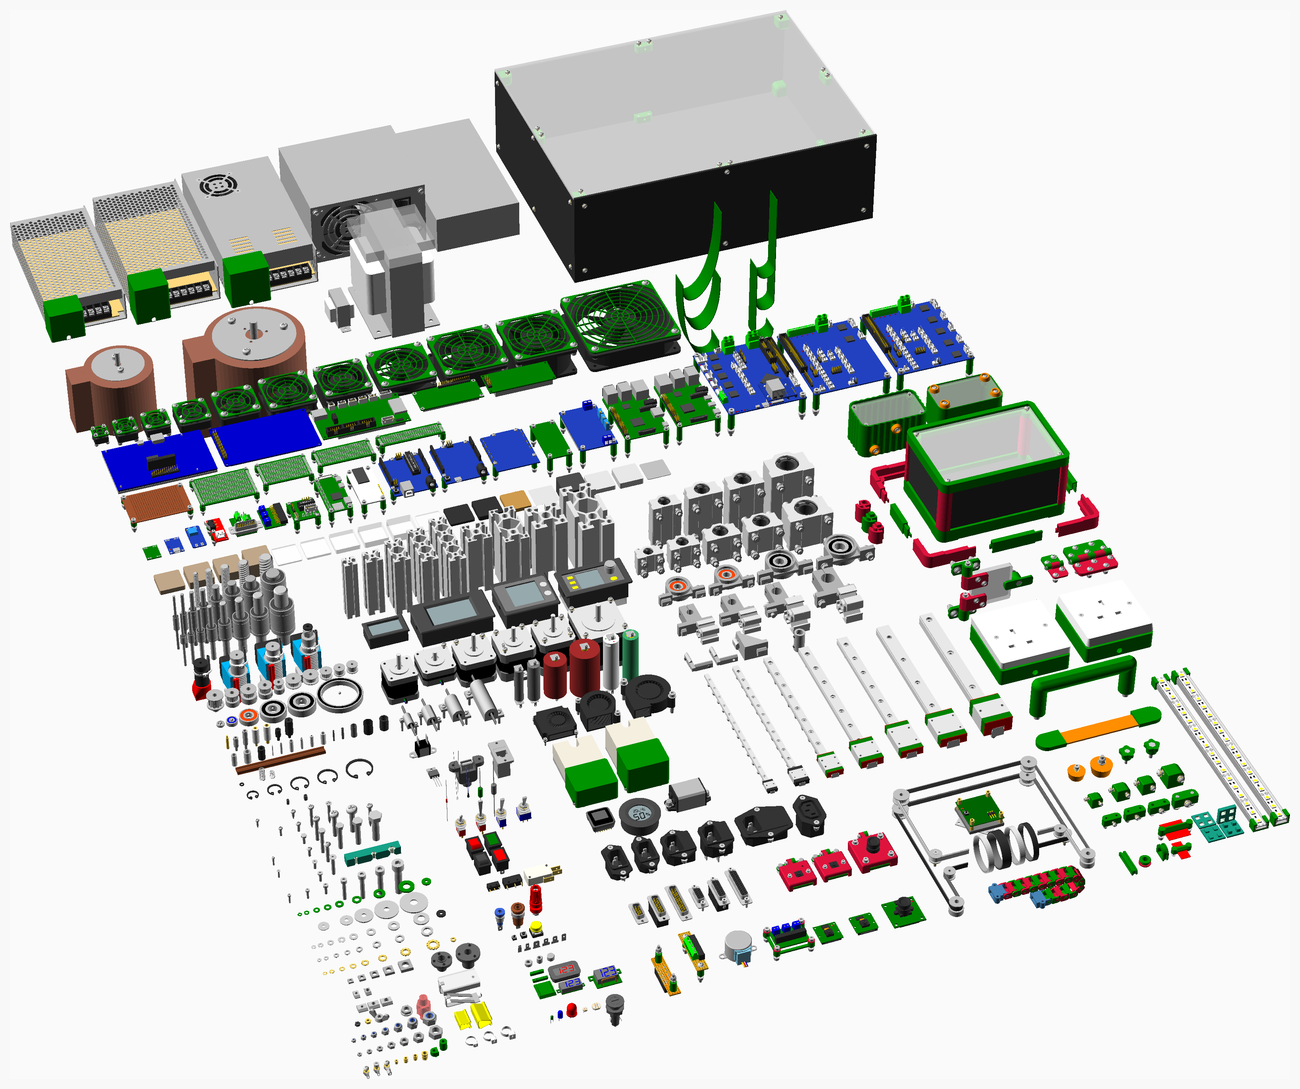
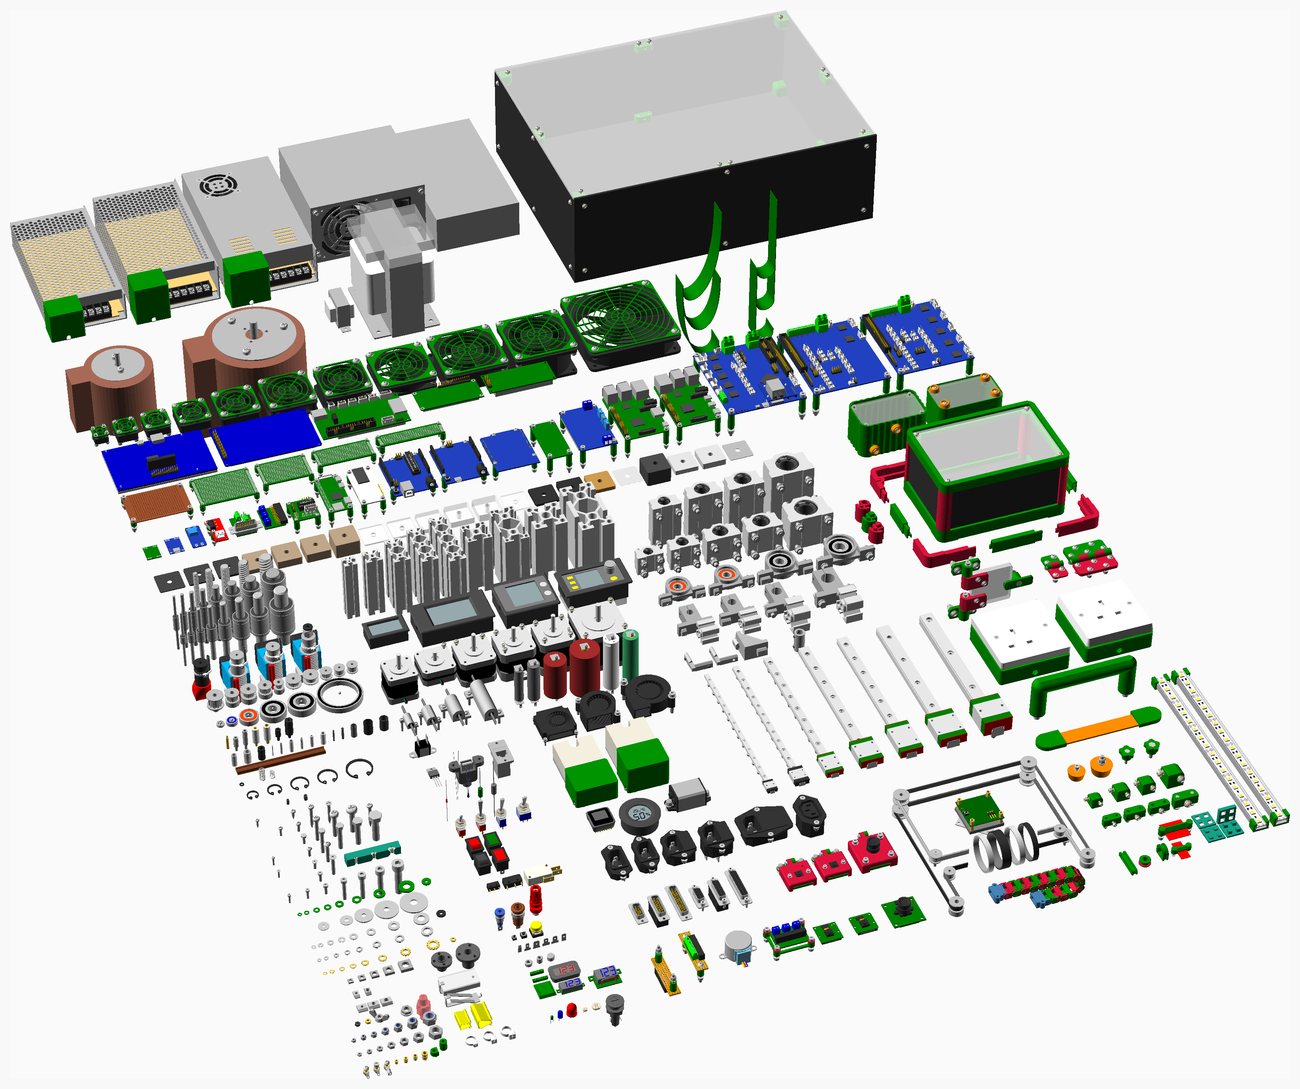
Reimplemeted woven sheets with an eye to speed and interface consistancy.

Changed region(s): [[0.1231, 0.4059, 0.5846, 0.562]]

diff --git a/readme.md b/readme.md
@@ -3127,8 +3127,12 @@ The "Soft" parameter can be used to determinesif the sheet material needs machin
 
 The "Colour" parameter is a quad-array: [R, G, B, Alpha], or can be a named colour, see [OpenSCAD_User_Manual](https://en.wikibooks.org/wiki/OpenSCAD_User_Manual/The_OpenSCAD_Language#color).
 
-For speed sheets should be modelled in 2D by subtracting holes from 2D templates made by ```sheet_2D()``` and then extruded to 3D with ```render_2D_sheet()```.
-Note that modules that drill holes will return a 2D object if ```h``` is set to 0 to facilitate this.
+For speed sheets should be modelled in 2D by subtracting holes from 2D templates made by `sheet_2D()` and then extruded to 3D with `render_2D_sheet()`.
+Note that modules that drill holes will return a 2D object if `h` is set to 0 to facilitate this.
+
+If 3D features are needed, for example countersinks, then sheets can be modelled in 3D using `sheet()` and then coloured with `render_sheet()`.
+
+When woven sheets (e.g. carbon fibre) are rendered it is necessary to specify the dimensions again to `render_sheet()` or `render_2D_sheet()`.
 
 
 [vitamins/sheets.scad](vitamins/sheets.scad) Object definitions.
@@ -3141,16 +3145,25 @@ Note that modules that drill holes will return a 2D object if ```h``` is set to 
 | Function | Description |
 |:--- |:--- |
 | ```sheet_colour(type)``` | Colour |
+| ```sheet_colour2(type)``` | Second colour for a woven sheet |
 | ```sheet_is_soft(type)``` | Is soft enough for wood screws |
 | ```sheet_thickness(type)``` | Thickness |
+| ```sheet_warp(type)``` | Wovern sheet warp |
+| ```sheet_weft(type)``` | Wovern sheet weft |
+
+### Functions
+| Function | Description |
+|:--- |:--- |
+| ```sheet_is_woven(type)``` | Is a woven sheet, eg carbon fiber |
 
 ### Modules
 | Module | Description |
 |:--- |:--- |
-| ```render_2D_sheet(type, colour = false)``` | Extrude a 2D sheet template and give it the correct colour |
-| ```render_sheet(type, colour = false)``` | Render a sheet in the correct colour after holes have been subtracted |
+| ```render_2D_sheet(type, colour = false, colour2 = false, w = undef, d = undef)``` | Extrude a 2D sheet template and give it the correct colour |
+| ```render_sheet(type, colour = false, colour2 = false, w = undef, d = undef)``` | Render a sheet in the correct colour after holes have been subtracted |
 | ```sheet(type, w, d, corners = [0, 0, 0, 0])``` | Draw specified sheet |
 | ```sheet_2D(type, w, d, corners = [0, 0, 0, 0])``` | 2D sheet template with specified size and optionally rounded corners |
+| ```woven_sheet(type, thickness, colour, colour2, w, d)``` | Create a woven 2D sheet with specified thickness and colours |
 
 ![sheets](tests/png/sheets.png)
 
@@ -3173,6 +3186,9 @@ Note that modules that drill holes will return a 2D object if ```h``` is set to 
 |   1 | ```sheet(PMMA3, 30, 30, 2)``` |  Sheet acrylic 30mm x 30mm x 3mm |
 |   1 | ```sheet(PMMA6, 30, 30, 2)``` |  Sheet acrylic 30mm x 30mm x 6mm |
 |   1 | ```sheet(PMMA8, 30, 30, 2)``` |  Sheet acrylic 30mm x 30mm x 8mm |
+|   2 | ```sheet(CF1, 30, 30, 2)``` |  Sheet carbon fiber 30mm x 30mm x 1mm |
+|   2 | ```sheet(CF2, 30, 30, 2)``` |  Sheet carbon fiber 30mm x 30mm x 2mm |
+|   2 | ```sheet(CF3, 30, 30, 2)``` |  Sheet carbon fiber 30mm x 30mm x 3mm |
 |   1 | ```sheet(glass2, 30, 30, 2)``` |  Sheet glass 30mm x 30mm x 2mm |
 |   1 | ```sheet(Steel06, 30, 30, 2)``` |  Sheet mild steel 30mm x 30mm x 0.6mm |
 
